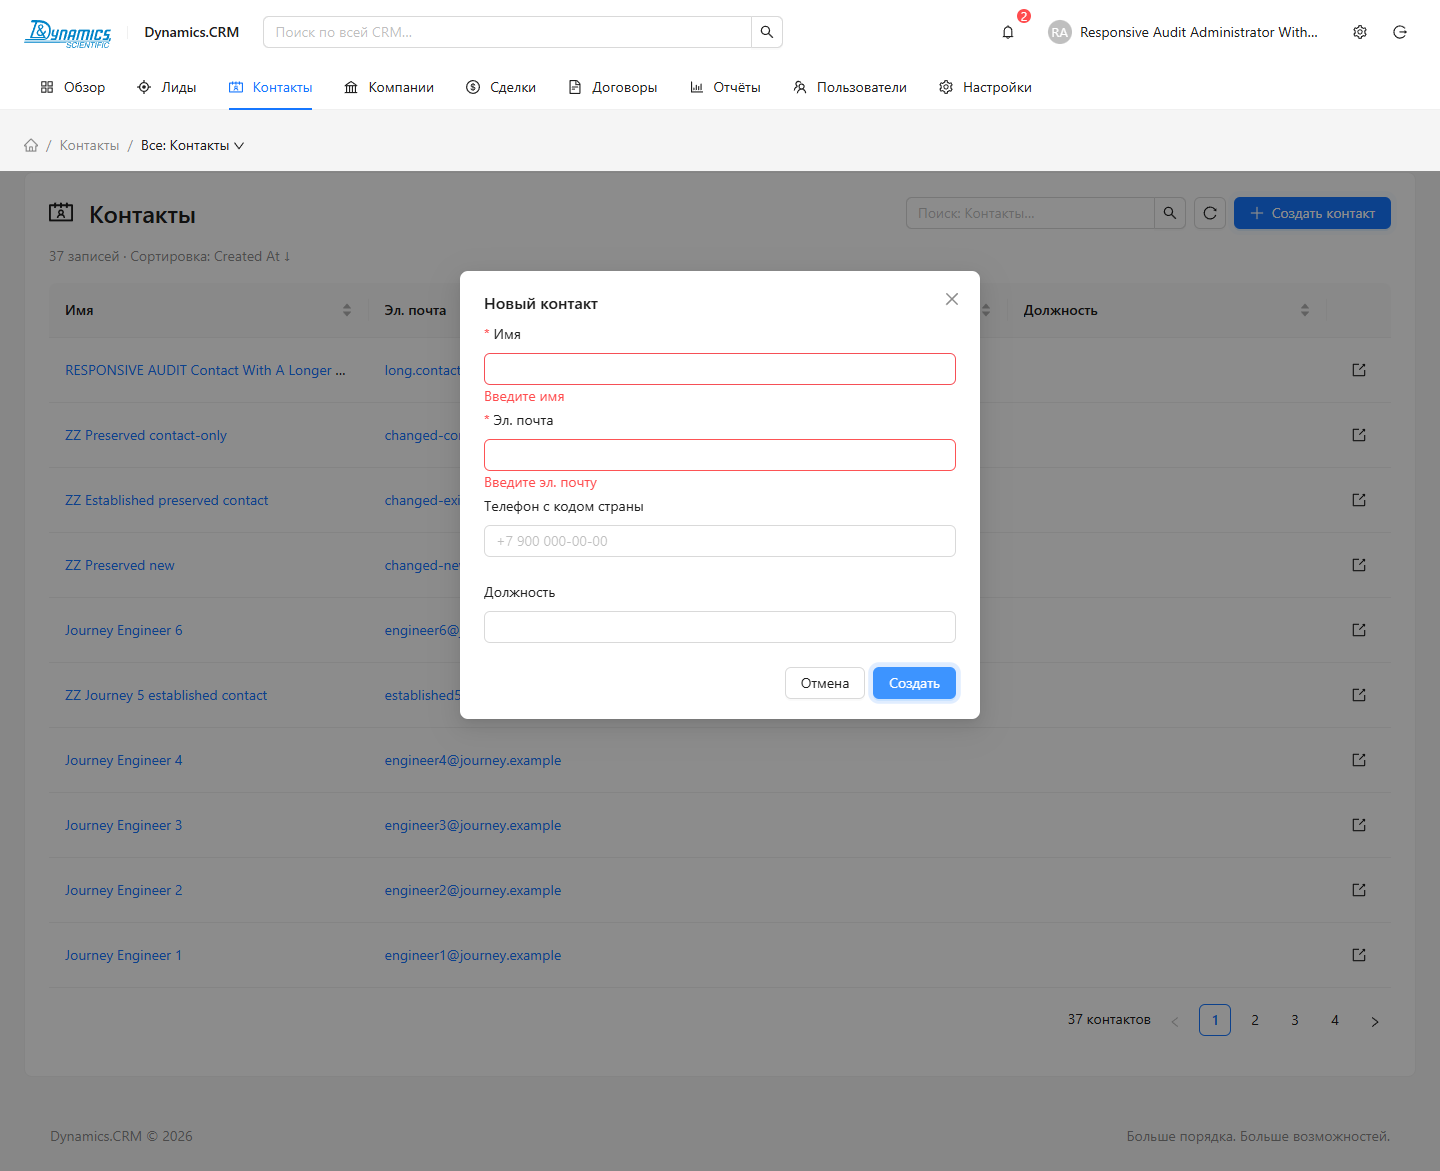
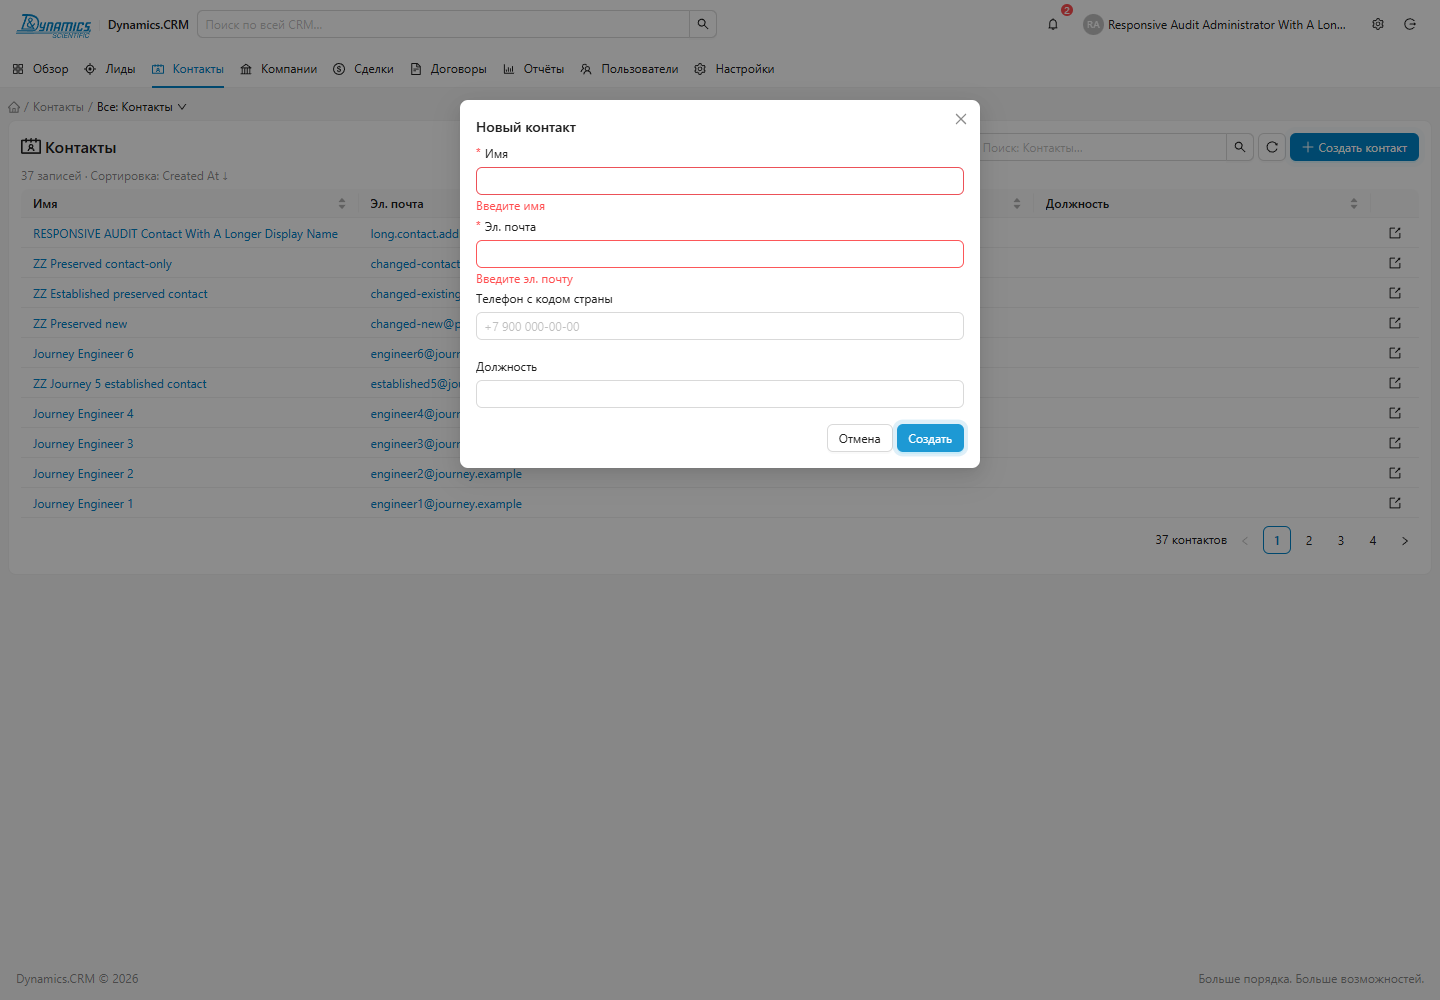
Apply brand colour #0084C9, 30px table rows and compact layout via theme tokens

diff --git a/antd-contacts/src/pages/ContactsPage.tsx b/antd-contacts/src/pages/ContactsPage.tsx
@@ -112,12 +112,13 @@ export default function ContactsPage() {
     sortableColumn('position'),
     {
       key: 'open',
-      width: 64,
+      width: 48,
       align: 'center',
       render: (_, record) => (
         <Tooltip title="Открыть карточку">
           <Button
             type="text"
+            size="small"
             icon={<ExportOutlined />}
             aria-label={`Открыть ${record.name}`}
             onClick={() => setOpened(record)}
@@ -155,7 +156,7 @@ export default function ContactsPage() {
   };
 
   return (
-    <Flex vertical gap="medium">
+    <Flex vertical gap="small">
       <Breadcrumb
         items={[
           { title: <HomeOutlined />, href: '#' },
@@ -164,12 +165,12 @@ export default function ContactsPage() {
         ]}
       />
 
-      <Card>
-        <Flex vertical gap="medium">
-          <Flex justify="space-between" align="center" wrap gap="medium">
-            <Space size="medium" align="center">
-              <ContactsOutlined style={{ fontSize: 24 }} />
-              <Title level={3} style={{ margin: 0 }}>
+      <Card size="small">
+        <Flex vertical gap="small">
+          <Flex justify="space-between" align="center" wrap gap="small">
+            <Space size="small" align="center">
+              <ContactsOutlined style={{ fontSize: 20 }} />
+              <Title level={4} style={{ margin: 0 }}>
                 Контакты
               </Title>
             </Space>

diff --git a/antd-contacts/src/App.tsx b/antd-contacts/src/App.tsx
@@ -72,13 +72,12 @@ export default function App() {
         style={{
           display: 'flex',
           alignItems: 'center',
-          gap: token.marginLG,
+          gap: token.margin,
           background: token.colorBgContainer,
-          paddingInline: token.paddingLG,
         }}
       >
         <Space size="small" align="center">
-          <Image src={logo} alt="Dynamics Scientific" height={28} preview={false} />
+          <Image src={logo} alt="Dynamics Scientific" height={24} preview={false} />
           {screens.md && (
             <>
               <Divider orientation="vertical" />
@@ -143,14 +142,14 @@ export default function App() {
         mode="horizontal"
         selectedKeys={['contacts']}
         items={sections}
-        style={{ paddingInline: token.paddingLG }}
+        style={{ paddingInline: token.paddingXS }}
         onClick={({ key }) => {
           const section = sections.find((s) => s.key === key);
           if (key !== 'contacts' && section) notInDemo(`Раздел ${section.label}`);
         }}
       />
 
-      <Content style={{ padding: token.paddingLG }}>
+      <Content style={{ padding: token.padding }}>
         <ContactsPage />
       </Content>
 

diff --git a/antd-contacts/src/theme.ts b/antd-contacts/src/theme.ts
@@ -1,0 +1,30 @@
+import { theme } from 'antd';
+import type { ThemeConfig } from 'antd';
+
+/**
+ * App-wide Ant Design theme. All visual adjustments live here as design tokens;
+ * components must not override colours or spacing locally.
+ */
+export const appTheme: ThemeConfig = {
+  // Compact algorithm: smaller control heights, paddings and margins across all components.
+  algorithm: [theme.defaultAlgorithm, theme.compactAlgorithm],
+  token: {
+    colorPrimary: '#0084C9',
+    colorLink: '#0084C9',
+  },
+  components: {
+    Layout: {
+      headerHeight: 48,
+      headerPadding: '0 16px',
+      footerPadding: '12px 16px',
+    },
+    Menu: {
+      horizontalLineHeight: '40px',
+    },
+    Table: {
+      // 4px + 22px line height + 4px = 30px row height
+      cellPaddingBlock: 4,
+      cellPaddingInline: 12,
+    },
+  },
+};

diff --git a/antd-contacts/src/main.tsx b/antd-contacts/src/main.tsx
@@ -4,10 +4,11 @@ import { App as AntApp, ConfigProvider } from 'antd';
 import ruRU from 'antd/locale/ru_RU';
 import 'antd/dist/reset.css';
 import App from './App.tsx';
+import { appTheme } from './theme';
 
 createRoot(document.getElementById('root')!).render(
   <StrictMode>
-    <ConfigProvider locale={ruRU}>
+    <ConfigProvider locale={ruRU} theme={appTheme}>
       <AntApp>
         <App />
       </AntApp>

diff --git a/CLAUDE.md b/CLAUDE.md
@@ -14,7 +14,10 @@ Current trial: **Ant Design**. The page is the Dynamics.CRM "Контакты" l
   spacing or styling.
 - Use **only standard Ant Design components** (`antd`, `@ant-design/icons`). No custom UI components and no
   custom CSS look.
-- Keep the **default antd theme**: no token or brand overrides. Use only `ConfigProvider locale={ruRU}`.
+- All visual customisation goes **only through antd design tokens** in `antd-contacts/src/theme.ts`
+  (`ConfigProvider theme={appTheme}`). Don't put colours or spacing overrides in components. Current theme:
+  `colorPrimary`/`colorLink` `#0084C9`, `defaultAlgorithm + compactAlgorithm`, Layout header 48px,
+  menu line 40px, Table cell padding 4px/12px (30px rows).
 - Frontend only, with typed mock data. There's no Express server in this trial.
 - Look up antd APIs in the machine-readable docs: https://ant.design/llms.txt and
   https://ant.design/llms-full.txt, plus the installed types in `node_modules/antd/es/**/*.d.ts`.
@@ -33,7 +36,8 @@ design/
     ├── index.html
     ├── package.json     # antd 6.7.1, @ant-design/icons 6.3.4, React 19, Vite 8, TS 7
     └── src/
-        ├── main.tsx     # ConfigProvider(locale=ruRU) + antd App + reset.css
+        ├── main.tsx     # ConfigProvider(locale=ruRU, theme=appTheme) + antd App + reset.css
+        ├── theme.ts     # appTheme: the single place for tokens (colour, compact algorithm, component tokens)
         ├── App.tsx      # shell: Layout > Header (logo, global Input.Search, Badge bell, user Dropdown,
         │                #   settings/logout) + horizontal Menu (9 sections) + Content + Footer
         ├── assets/logo.svg
@@ -69,6 +73,9 @@ npm run build   # tsc -b + vite build (a >500 kB chunk warning from antd is expe
   form validation, view switch, 390px with no horizontal scroll). There are 0 antd console warnings in dev.
   Below `md`, the global search becomes an icon button and the pagination switches to `simple`.
 - 2026-11-16: Added `ANTD_NOTES.md` and `docs/screenshots/`. The Ant Design trial is complete.
+- 2026-11-16: Requested changes: primary colour `#0084C9`, 30px table rows, a compact layout (compact algorithm,
+  smaller header/menu/paddings/gaps, Card `size="small"`, Title level 4). Measured in Chrome: rows 30px,
+  header 48px, menu 40px, primary `rgb(0,132,201)`. 14/14 checks pass, 0 console warnings.
 
 ## Gotchas found
 - `Breadcrumb` item `menu` is not typed as `MenuProps`. Derive the type:
@@ -76,3 +83,6 @@ npm run build   # tsc -b + vite build (a >500 kB chunk warning from antd is expe
 - `Divider` `type` is deprecated in v6. Use `orientation="vertical"`.
 - A Modal with a Form uses the `modalRender` + `okButtonProps.htmlType="submit"` pattern and `destroyOnHidden`.
 - Headless Chrome `--window-size` can't go below ~500px wide, so use Playwright viewports for mobile checks.
+- Row height = `cellPaddingBlock` × 2 + 22px line height. Buttons inside rows need `size="small"`, or they
+  stretch the row.
+- Stopping a background `npx vite` task can leave the node process running on its port. Check with `netstat`.

diff --git a/antd-contacts/ANTD_NOTES.md b/antd-contacts/ANTD_NOTES.md
@@ -2,8 +2,22 @@
 
 Trial page: Dynamics.CRM "Контакты" list (`../img_design_1.png`), rebuilt with **antd 6.7.1** +
 `@ant-design/icons` 6.3.4, React 19, Vite 8, TypeScript 7.
-Rules: the screenshot shows structure only. The page uses the default antd theme, standard components only,
-no custom UI components and no CSS files.
+Rules: the screenshot shows structure only. Standard components only, no custom UI components and no CSS files.
+All visual customisation is done with design tokens in `src/theme.ts`.
+
+## 0. Theme (src/theme.ts)
+```ts
+algorithm: [theme.defaultAlgorithm, theme.compactAlgorithm],   // denser everything
+token: { colorPrimary: '#0084C9', colorLink: '#0084C9' },
+components: {
+  Layout: { headerHeight: 48, headerPadding: '0 16px', footerPadding: '12px 16px' },
+  Menu:   { horizontalLineHeight: '40px' },
+  Table:  { cellPaddingBlock: 4, cellPaddingInline: 12 },        // 4 + 22 + 4 = 30px rows
+}
+```
+Brand colour, density and row height took **one file, about 20 lines**, and no CSS. This is a strong point for
+the skill: it can ship a shared `theme.ts` to every app. Measured in Chrome: rows 30px, header 48px, menu
+40px, primary `rgb(0,132,201)`.
 
 Screenshots: `../docs/screenshots/` (1440px, 390px, row drawer, create modal).
 
@@ -58,11 +72,10 @@ run that asserts **0 console warnings**. This trial passes it.
 ## 4. Inline styles used (all layout or size, none for appearance)
 `minHeight: 100vh` on Layout. Header flex alignment and padding from tokens. Search `flex`/`maxWidth`/`width`.
 `marginInlineStart: auto` to push header actions right. `maxWidth` for the ellipsed user name.
-`margin: 0` on the page Title (Title has a default bottom margin). Icon `fontSize: 24` to match Title level 3.
+`margin: 0` on the page Title (Title has a default bottom margin). Icon `fontSize: 20` to match Title level 4.
 
 ## 5. Differences from the original page (by design or by antd)
-- The colours, density and borders come from the default antd theme, so the page looks like antd and not like the
-  original brand. A brand theme would be a single `ConfigProvider theme={{ token: { colorPrimary } }}` change.
+- The brand colour and density come from `theme.ts`. Borders, radii and shapes are still antd defaults.
 - The header and the section menu are two standard rows (`Header` + horizontal `Menu`), not one custom bar.
 - "Created At ↓" is the default order, but there's no column for it (same as the original). Column sort
   replaces it, and the label updates.
